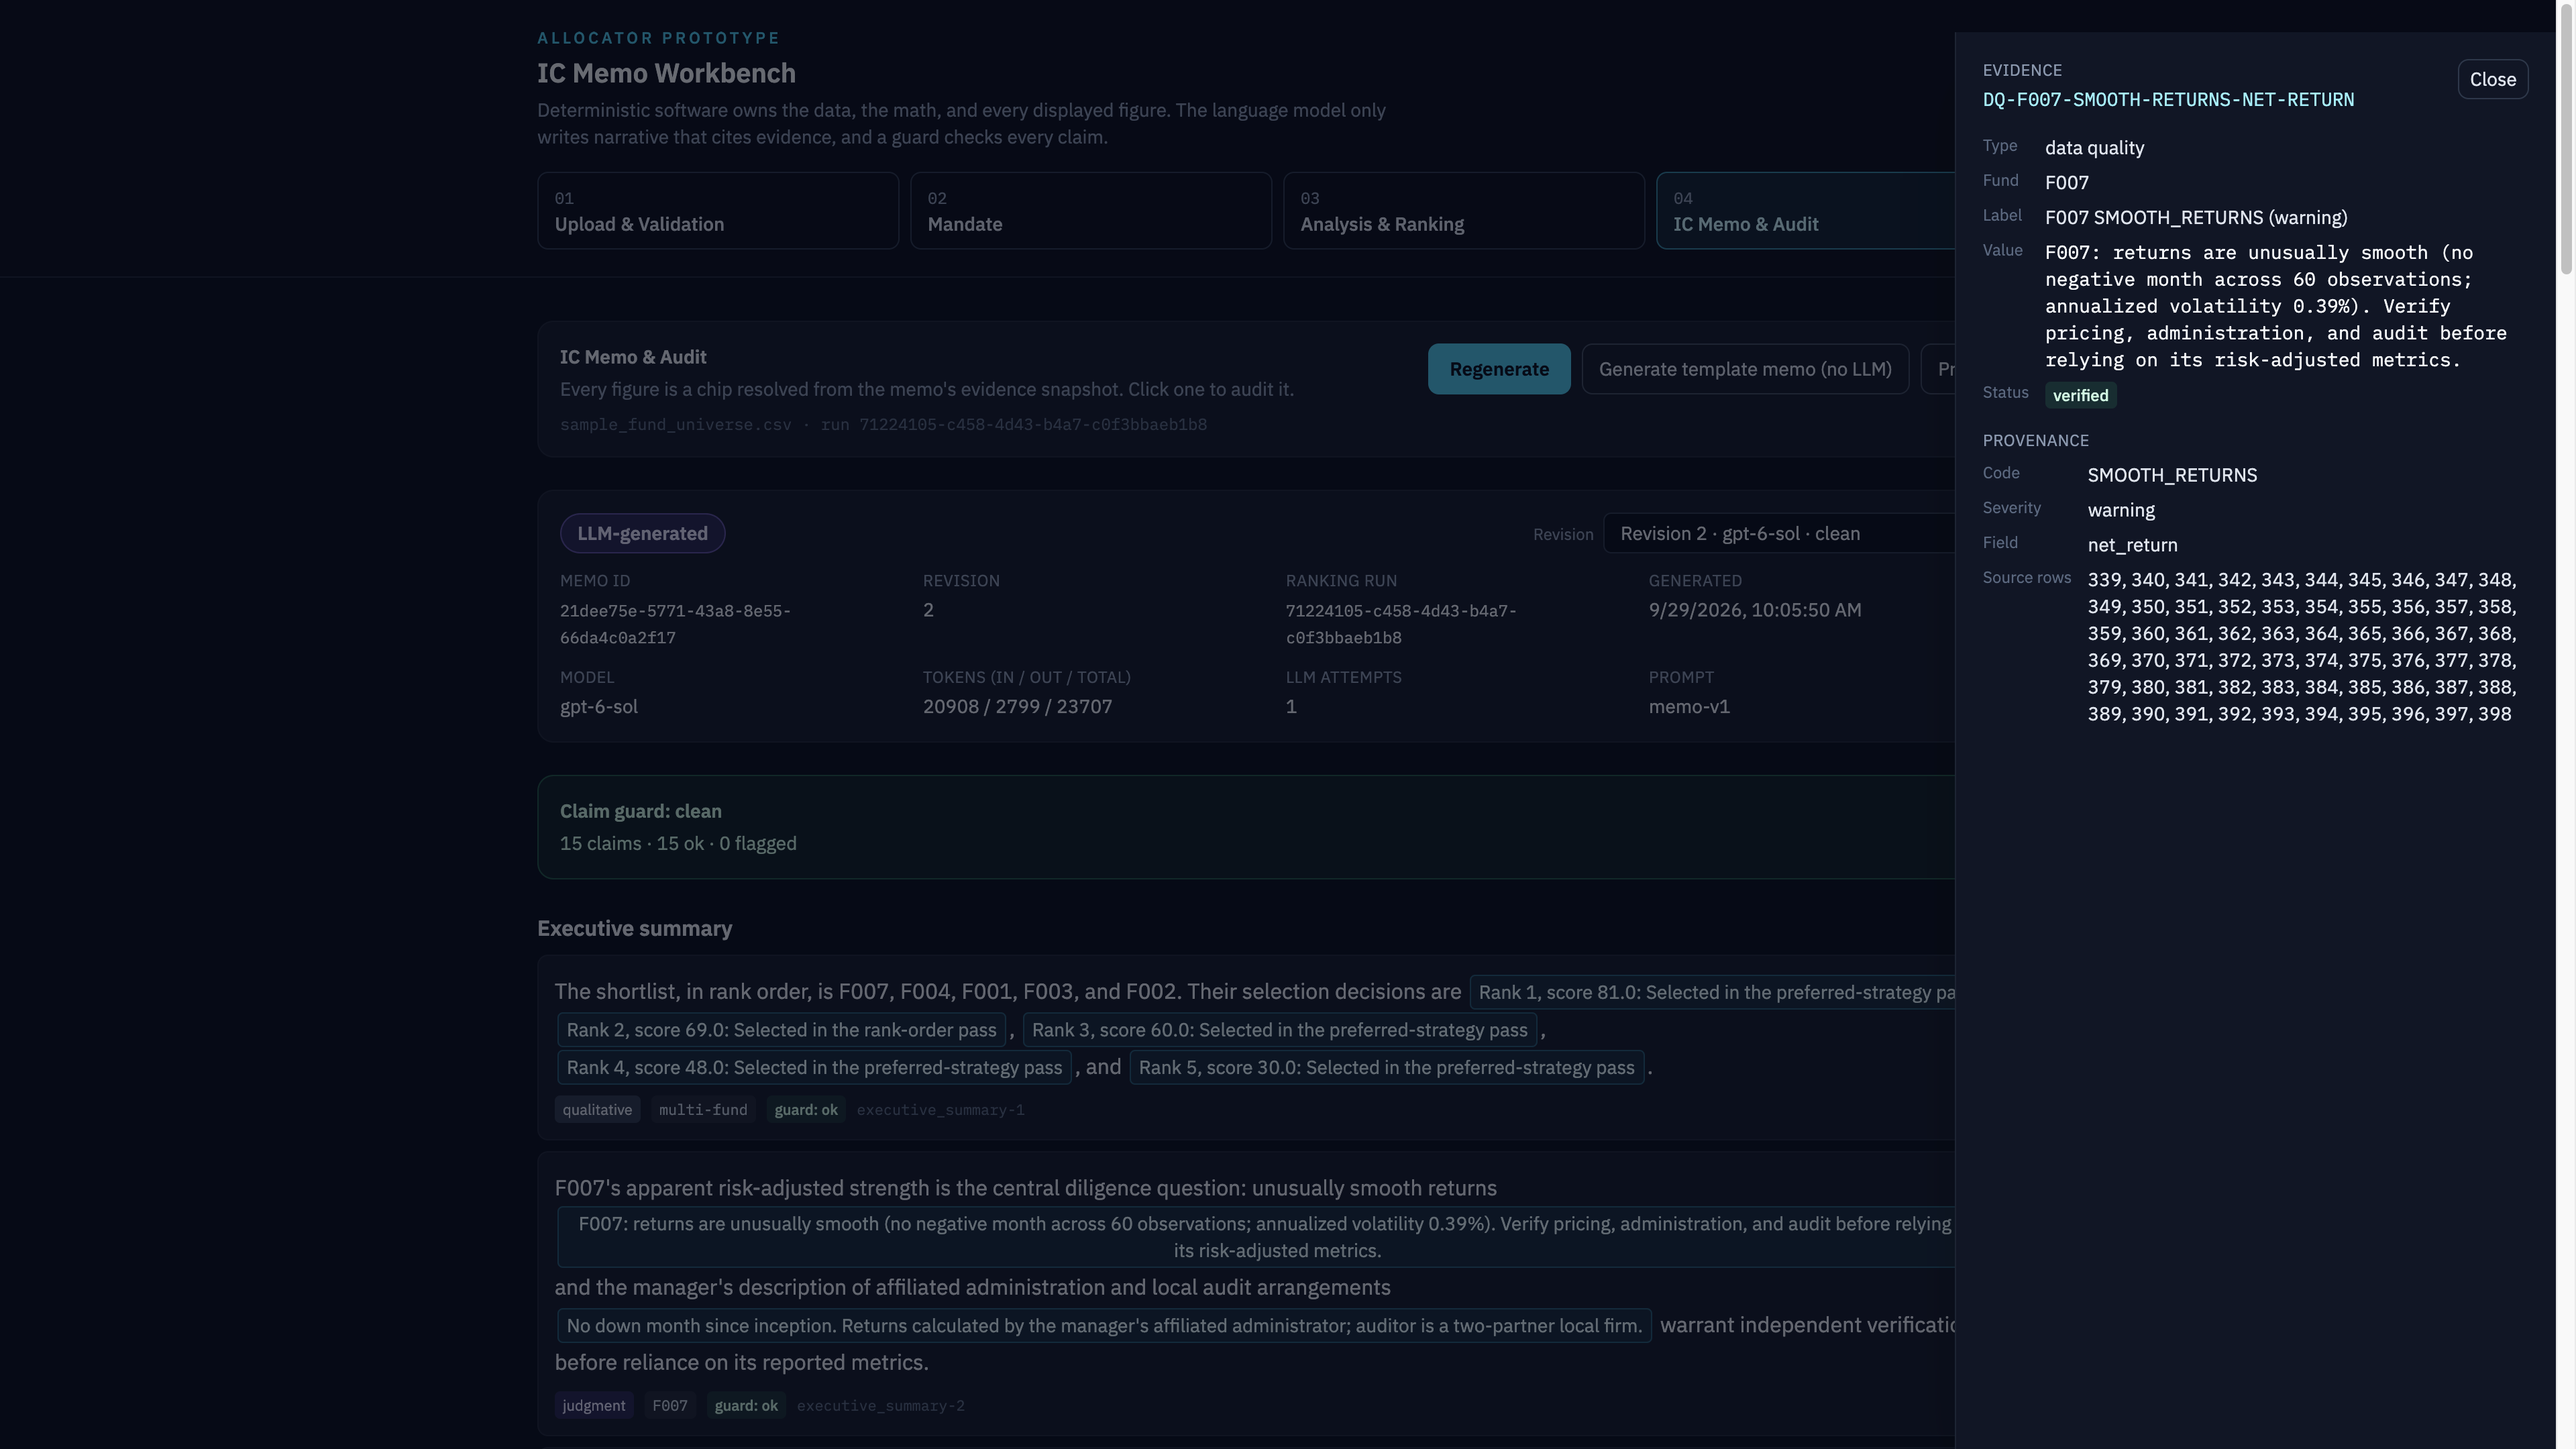
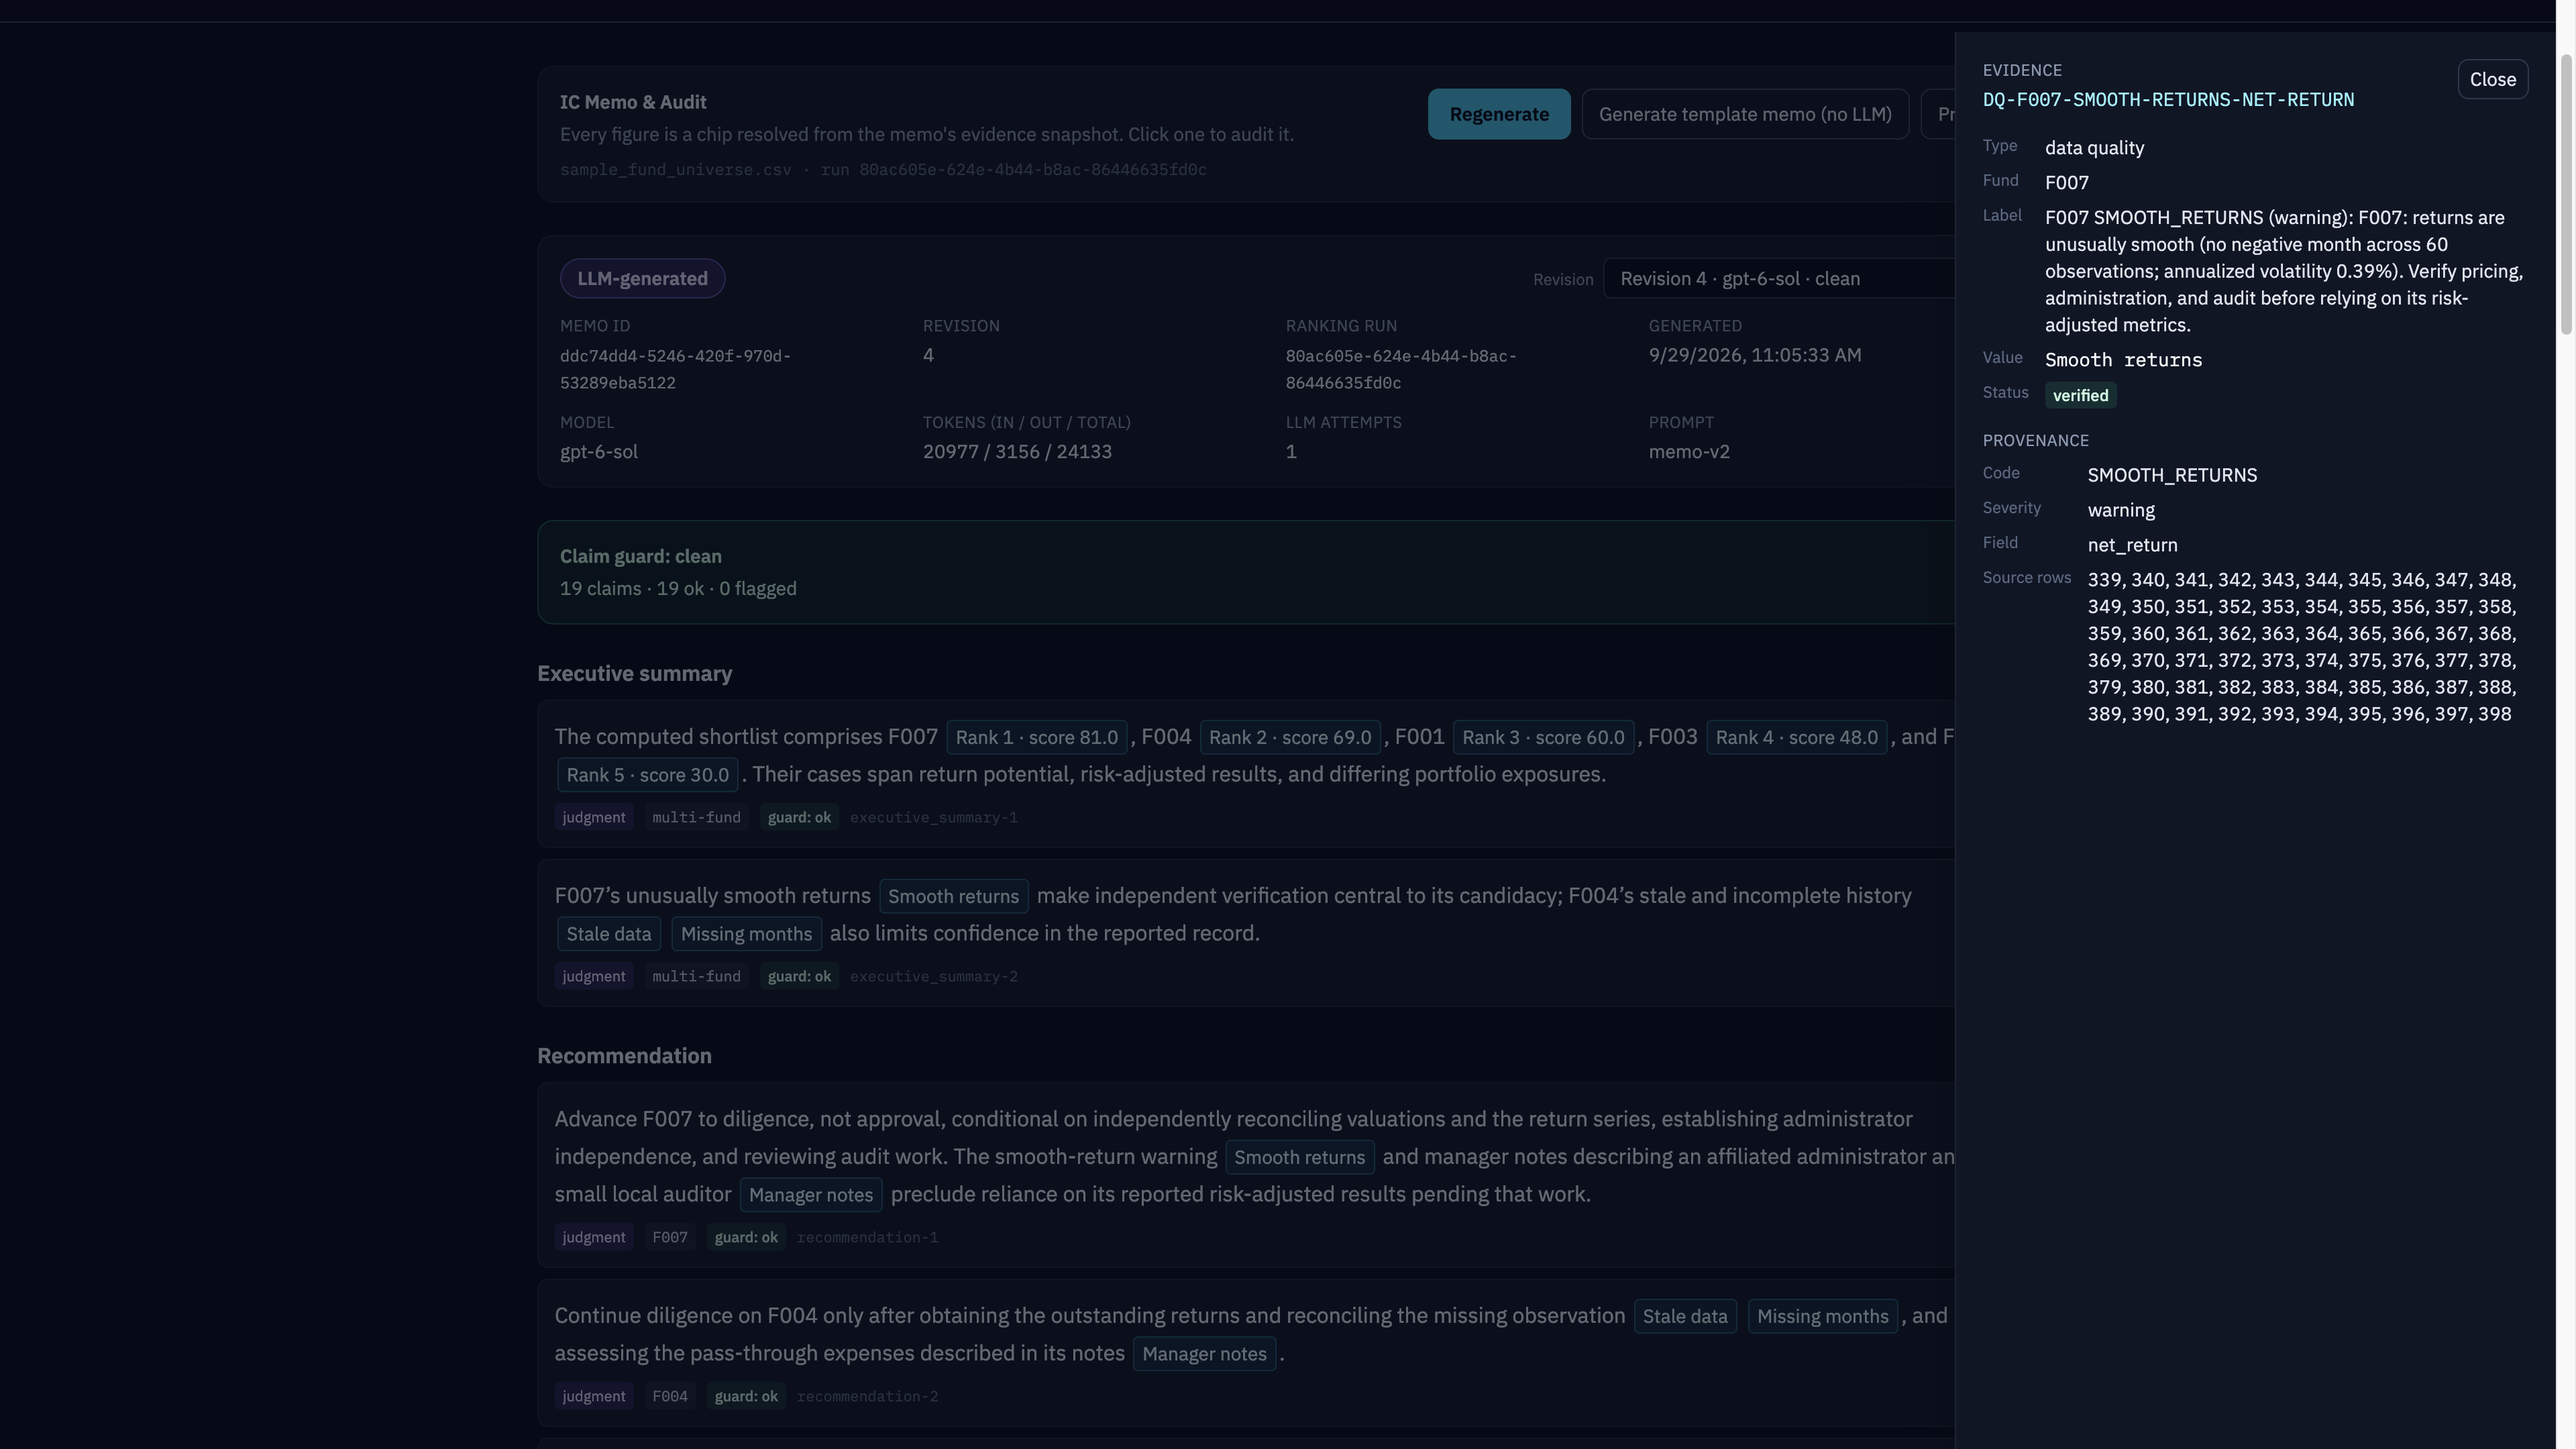
README: current memo screenshots, macOS note, link to DECISIONS.md

diff --git a/README.md b/README.md
@@ -46,6 +46,8 @@ flowchart LR
 
 Routes are thin; all logic lives in `backend/app/services/`. Metrics, ranking, and the claim guard are pure functions with no I/O. Stack: React 19, TypeScript, Tailwind, Vite; Python 3.12, FastAPI, Pydantic v2, SQLAlchemy 2, Alembic, pandas/numpy; PostgreSQL 16; Docker Compose.
 
+Design decisions and trade-offs: see [DECISIONS.md](DECISIONS.md).
+
 ## Data model
 
 | Table | Holds |
@@ -149,7 +151,7 @@ Open <http://localhost:5173>. The API is at <http://localhost:8000/api/health>. 
 | `make test` | backend tests inside the API container against `allocator_test` |
 | `make logs` | follow API and web logs |
 
-On macOS, if `docker compose up` fails with `mkdir /host_mnt/...: operation not permitted`, Docker Desktop cannot read the folder the repo is in (common under `~/Documents`, `~/Desktop`, or `~/Downloads`). Move the repo elsewhere (for example `~/code`) or grant Docker access to that folder, then retry.
+On macOS, if `docker compose up` fails with `mkdir /host_mnt/...: operation not permitted`, Docker Desktop cannot read the folder the repo is in (common under `~/Documents`, `~/Desktop`, or `~/Downloads`). Grant Docker Desktop Full Disk Access (System Settings → Privacy & Security), then restart Docker. If that doesn't help, move the repo outside `~/Documents` (for example to `~/code`).
 
 ## Tests
 
